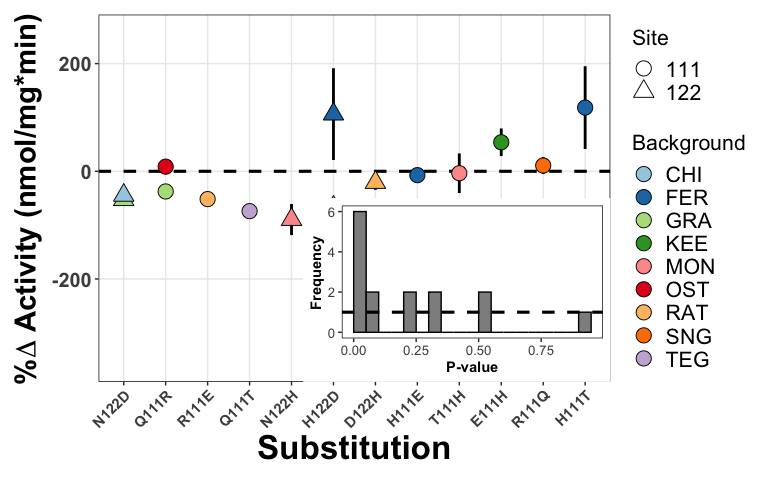
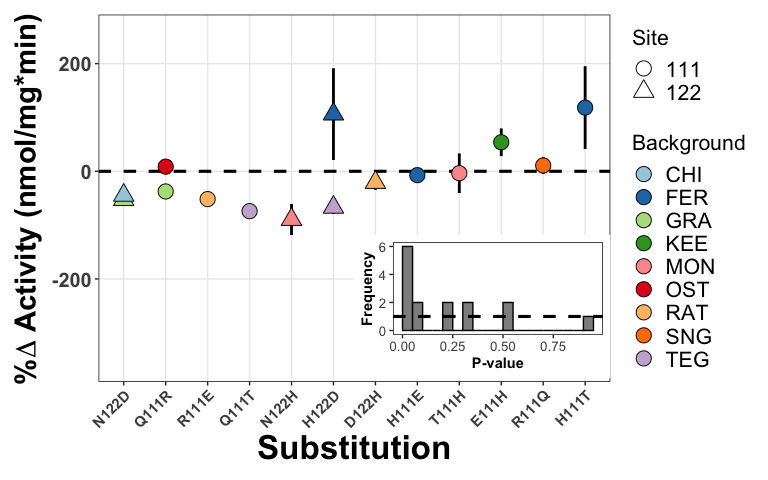
updated script fig4

Changed region(s): [[0.4062, 0.4062, 0.7812, 0.7812], [0.7812, 0.4375, 0.8125, 0.4688]]

diff --git a/notebooks/mutation_effects.md b/notebooks/mutation_effects.md
@@ -8,6 +8,8 @@ This notebook contains the code for all panels in fig 4.
 Panel B
 -------
 
+Levels of CTS resistance (IC50) among wild-type enzymes.
+
 ``` r
 data <- read.csv("../data/mut_effects/IC50_and_ATPase_Data.csv",h=TRUE)
 data <- data[data$native=="YES",]
@@ -19,6 +21,7 @@ se <- c()
 ci95 <- c()
 mutation <- c()
 
+# Compute SE of IC50 using triplicate measurements
 for(i in 1:length(construct)){
   t <- data[data$construct==construct[i],]
   meanIC50 <- c(meanIC50,mean(t$IC50))
@@ -30,11 +33,7 @@ for(i in 1:length(construct)){
   ci95 <- c(ci95,ci95_i)
   mutation <- c(mutation,unique(t$mutations_111.122))
 }
-```
 
-    ## Warning in qt(0.025, length(t$IC50) - 1, lower.tail = FALSE): NaNs produced
-
-``` r
 data_sum <- data.frame(construct,meanIC50,sd,se,ci95,mutation)
 data_sum$state <- c("RD","EN","HH","EN","TN","QH","QN","RN","QN","RD","QN")
 data_sum$state <- factor(data_sum$state, levels=c("QN","EN","RN","TN","QH","HH","RD"))
@@ -62,8 +61,6 @@ ggplot(data_sum,aes(x=factor(mutation),y=meanIC50),color=state) +
         legend.title = element_text(size=16)) #+
 ```
 
-    ## Warning: Removed 1 rows containing missing values (geom_segment).
-
 ![](mutation_effects_files/figure-markdown_github/panelB-1.png)
 
 ``` r
@@ -73,6 +70,8 @@ ggplot(data_sum,aes(x=factor(mutation),y=meanIC50),color=state) +
 
 Panel C
 -------
+
+Effects on CTS resistance (IC50) of changing the number of substitutions at 111 or 122.
 
 ``` r
 data <- read.csv("../data/mut_effects/IC50_and_ATPase_Data.csv",h=TRUE)
@@ -90,6 +89,7 @@ se <- c()
 ci95 <- c()
 mutation <- c()
 
+# Compute SE of IC50 using triplicate measurements
 for(i in 1:length(construct)){
   t <- data[data$construct==construct[i],]
   meanIC50 <- c(meanIC50,mean(t$IC50))
@@ -108,7 +108,7 @@ data_sum$state <- factor(data_sum$state, levels=c("QN","EN","RN","QD","ED","RD")
 data_sum$sp <- c("Chinchilla","Ostrich","Sandgrouse","Chinchilla","Ostrich","Sandgrouse","Leptodactylus","Leptodactylus",
              "Leptodactylus","Leptodactylus")
 
-data_sum$new_x <- c(1.17,0.15,0.8,1.85,0.85,0,-0.15,0.85,0.9,2.1)
+data_sum$new_x <- c(1.17,0.15,0.8,1.85,0.85,0,-0.15,0.85,0.9,2.1) # make x-axis continuous 
 
 native_prots <- data_sum[c(1,2,3,7),]
 
@@ -144,6 +144,8 @@ ggplot(data_sum,aes(x=new_x,y=meanIC50),color=state) +
 Panel D
 -------
 
+Evidence for epistasis for CTS resistance (IC50)
+
 ``` r
 data <- read.csv("../data/mut_effects/Five_cases_mutations.csv",h=TRUE)
 
@@ -161,6 +163,7 @@ is.integer0 <- function(x)
   is.integer(x) && length(x) == 0L
 }
 
+# Compute SE of IC50 using triplicate measurements
 for(i in 1:length(construct)){
   t <- data[data$construct==construct[i],]
   meanIC50 <- c(meanIC50,mean(t$IC50))
@@ -207,6 +210,8 @@ ggplot(data_sum,aes(x=new_x,y=meanIC50)) +
 Panel E
 -------
 
+Lack of for epistasic effects for enzyme activity.
+
 ``` r
 data <- read.csv("../data/mut_effects/Five_cases_mutations.csv",h=TRUE)
 
@@ -224,6 +229,7 @@ is.integer0 <- function(x)
   is.integer(x) && length(x) == 0L
 }
 
+# Compute SE of activity using triplicate measurements
 for(i in 1:length(construct)){
   t <- data[data$construct==construct[i],]
   meanActivity <- c(meanActivity,mean(t$Activity))
@@ -275,8 +281,10 @@ data <- read.csv("../data/mut_effects/percent_activity_changes.csv",h=T)
 #Standard error of the percent change of means
 #https://stats.stackexchange.com/questions/376639/what-is-the-standard-error-of-the-difference-in-means-scaled-as-percent-differen
 #https://www2.census.gov/programs-surveys/acs/tech_docs/accuracy/percchg.pdf
+
+# This function was used to create the 'SE_%change' column
 se_perc_change <- function(d1,d2){
-  # d1 and d2 are the trplicate measurements of each construct
+  # d1 and d2 are the trplicate measurements of each wt and mutant constructs, respectively (from 'IC50_and_ATPase_Data.csv')
   m1 <- mean(d1)
   m2 <- mean(d2)
   se1 <- sd(d1)/sqrt(length(d1))
@@ -331,7 +339,7 @@ p2 <- ggplot(data,aes(x=t.testp)) +
   ) +
   geom_hline(yintercept=1, linetype="dashed", color="black", size=1.1)
  
-p1 + inset_element(p2, left=0.4, bottom=0, right=1, top=0.5)
+p1 + inset_element(p2, left=0.5, bottom=0.01, right=1, top=0.4)
 ```
 
 ![](mutation_effects_files/figure-markdown_github/panelF-1.png)
@@ -339,13 +347,14 @@ p1 + inset_element(p2, left=0.4, bottom=0, right=1, top=0.5)
 Visually check the ANOVAs
 -------------------------
 
-Check visually the results of the two-way ANOVAs for panels D and E
+Check visually the results of the two-way ANOVAs for panels D and E. Here, instead of 'wild-type' and 'mutant', we will recode the constructs as '0' and '1' so that all constructs have the same "direction" (i.e., the effect when a mutation is introduced 0 --&gt; 1).
 
 ``` r
 rev <- read.csv("../data/mut_effects/Reversibility.csv",h=T)
 eq <- read.csv("../data/mut_effects/Equivalence.csv",h=T)
 
-#H111E
+####################
+# H111E
 h111e <- rev[rev$State=="H111E",]
 h111e$Background <- as.factor(h111e$Background)
 h111e$Sub <- as.factor(h111e$Sub)
@@ -371,7 +380,8 @@ a1 <- ggline(h111e, x = "Sub", y = "Activity", color = "Bg",
             add = c("mean_ci",  error.plot = "pointrange"),
             palette = c("#00AFBB", "#E7B800"),title="H111E")
 
-#H111T
+####################
+# H111T
 h111t <- rev[rev$State=="H111T",]
 h111t$Background <- as.factor(h111t$Background)
 h111t$Sub <- as.factor(h111t$Sub)
@@ -397,8 +407,8 @@ b1 <- ggline(h111t, x = "Sub", y = "Activity", color = "Bg",
             add = c("mean_ci",  error.plot = "pointrange"),
             palette = c("#00AFBB", "#E7B800"),title="H111T")
 
-
-#Q111R
+####################
+# Q111R
 q111r <- rev[rev$State=="Q111R",]
 q111r$Background <- as.factor(q111r$Background)
 q111r$Sub <- as.factor(q111r$Sub)
@@ -427,7 +437,8 @@ c1 <- ggline(q111r, x = "Sub", y = "Activity", color = "Bg",
             add = c("mean_ci",  error.plot = "pointrange"),
             palette = c("#00AFBB", "#E7B800","#9d3dba"),title="Q111R")
 
-#H122D
+####################
+# H122D
 h122d <- rev[rev$State=="H122D",]
 h122d$Background <- as.factor(h122d$Background)
 h122d$Sub <- as.factor(h122d$Sub)
@@ -454,7 +465,8 @@ d1 <- ggline(h122d, x = "Sub", y = "Activity", color = "Bg",
          add = c("mean_ci",  error.plot = "pointrange"),
          palette = c("#00AFBB", "#E7B800","#9d3dba"),title="H122D")
 
-#N122D
+####################
+# N122D
 n122d <- eq[eq$State=="N122D",]
 n122d$Background <- as.factor(n122d$Background)
 n122d$Sub <- as.factor(n122d$Sub)
@@ -492,3 +504,74 @@ a1+b1+c1+d1+e1
 ```
 
 ![](mutation_effects_files/figure-markdown_github/anovas-2.png)
+
+Global relationship between IC50 and activity
+---------------------------------------------
+
+Explore the relationship between IC50 and activity for wild-type constructs.
+
+``` r
+data <- read.csv("../data/mut_effects/IC50_and_ATPase_Data.csv",h=TRUE)
+data <- data[data$native=="YES",]
+
+construct <- unique(data$construct)
+meanIC50 <- c()
+meanAct <- c()
+se_ic50 <- c()
+se_act <- c()
+mutation <- c()
+
+# Compute SE of IC50 and activity using triplicate measurements
+for(i in 1:length(construct)){
+  t <- data[data$construct==construct[i],]
+  meanIC50 <- c(meanIC50,mean(t$IC50))
+  meanAct <- c(meanAct,mean(t$Activity))
+  se_i <- sd(t$IC50)/sqrt(length(t$IC50)) #standard error of the mean
+  se_ic50 <- c(se_ic50,se_i)
+  se_i2 <- sd(t$Activity)/sqrt(length(t$Activity))
+  se_act <- c(se_act,se_i2)
+  mutation <- c(mutation,unique(t$mutations_111.122))
+}
+
+data_sum <- data.frame(construct,meanIC50,se_ic50,meanAct,se_act,mutation)
+
+#Plot
+ggplot(data_sum,aes(x=meanIC50,y=meanAct,fill=as.factor(mutation))) +
+  geom_pointrange(aes(xmin=meanIC50-se_ic50, xmax=meanIC50+se_ic50),shape = 21,size=1.5) +
+  geom_pointrange(aes(ymin=meanAct-se_act, ymax=meanAct+se_act),shape = 21,size=1.5) +
+  labs(y = "Activity", x = expression(bold(paste("log"["10"],"(IC50)")))) +
+  theme(
+    panel.background = element_rect(fill = NA),
+    panel.border = element_rect(linetype = 1, fill = NA),
+    panel.grid.major = element_line(colour = "grey92"),
+    axis.text.x = element_text(face="bold", size=16),
+    axis.text.y = element_text(face="bold", size=15), 
+    axis.title = element_text(face="bold", size=20)
+  ) +
+  scale_fill_manual("Derived states\n at 111 or 122",values=c("#32a852","#8744ad","#3361c4"))
+```
+
+![](mutation_effects_files/figure-markdown_github/globalrelation-1.png)
+
+``` r
+# Person's correlation
+print(paste("Correlation between activity and IC50",cor(data_sum$meanIC50,data_sum$meanAct,use = "pairwise.complete.obs")))
+```
+
+    ## [1] "Correlation between activity and IC50 -0.12779131635488"
+
+``` r
+cor.test(data_sum$meanIC50,data_sum$meanAct)
+```
+
+    ## 
+    ##  Pearson's product-moment correlation
+    ## 
+    ## data:  data_sum$meanIC50 and data_sum$meanAct
+    ## t = -0.36444, df = 8, p-value = 0.725
+    ## alternative hypothesis: true correlation is not equal to 0
+    ## 95 percent confidence interval:
+    ##  -0.7010135  0.5457461
+    ## sample estimates:
+    ##        cor 
+    ## -0.1277913
